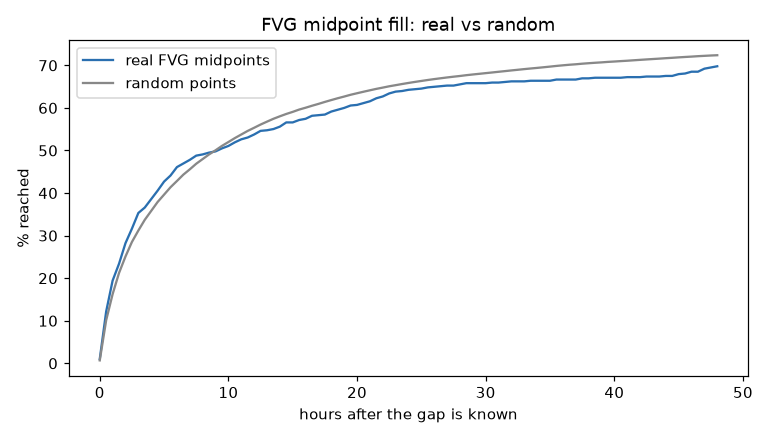
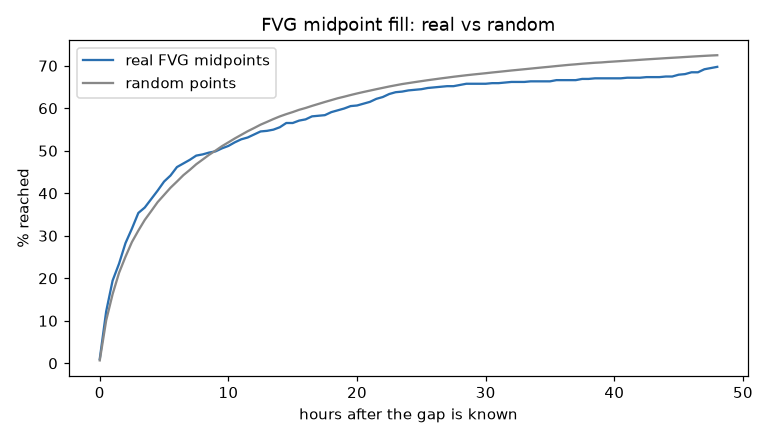
Research: Part A fixes (touch-bar reversal, DEV_END cut, noise bands)

diff --git a/src/xauai/levelstudy.py b/src/xauai/levelstudy.py
@@ -7,8 +7,10 @@ the real levels of OTHER sessions transplanted (same signed distance in ATR unit
 FVG fill study: share of big H1 FVG midpoints reached within 1/4/12/24/48 h of `known_at`, vs random points
 at the same signed ATR distance from random other H1 closes.
 
-Outcome codes: 0 untouched, 1 reversed, 2 broke, 3 touched_no_resolution. A bar that both reverses and goes
-through (or touches and goes through) is counted as "broke" (conservative: unknown intrabar order).
+Outcome codes: 0 untouched, 1 reversed, 2 broke, 3 touched_no_resolution. The touch bar counts for the
+reversal check (its low, for a level above). A bar that both reverses and goes through (including the touch
+bar) is counted as "broke" (conservative: unknown intrabar order).
+Only M1 data up to DEV_END 23:59:59 is read: sessions / FVG horizons / random pools that pass it are dropped.
 """
 
 from __future__ import annotations
@@ -57,7 +59,7 @@ def _codes_above(h: np.ndarray, l: np.ndarray, p: np.ndarray, atr: float) -> np.
     t0 = np.searchsorted(c, p, side="left")  # first bar with high >= p
     touched = t0 < n
     tt = np.searchsorted(c, p + atr, side="left")  # first bar with high >= p + atr
-    lo, hi = t0 + 1, tt  # reversal can only happen strictly after the touch bar and before the through bar
+    lo, hi = t0, tt  # reversal window = touch bar .. bar before the through bar; a bar that also goes through = broke
     has = touched & (hi > lo)
     length = np.where(has, hi - lo, 1)
     k = np.floor(np.log2(length)).astype(int)
@@ -141,11 +143,15 @@ def build_sessions(inp: Inputs) -> pd.DataFrame:
     t = m1["time"].to_numpy()
     lo, hi = pd.Timestamp(config.DEV_START), pd.Timestamp(config.DEV_END) + _DAY
     rows = []
+    dropped = 0
     for i in range(len(w) - 1):
         s = w.at[i, "start"]
         if not (lo <= s < hi):
             continue
         e = max(w.at[i, "end"], w.at[i + 1, "end"])
+        if e > hi - pd.Timedelta(seconds=1):  # window would read past DEV_END 23:59:59
+            dropped += 1
+            continue
         a = int(np.searchsorted(t, s.to_datetime64(), side="left"))
         b = int(np.searchsorted(t, e.to_datetime64(), side="left"))
         if b <= a or pd.Timestamp(t[a]) - s > _H1:
@@ -154,7 +160,9 @@ def build_sessions(inp: Inputs) -> pd.DataFrame:
         if np.isnan(atr) or atr <= 0:
             continue
         rows.append((s, e, w.at[i, "session"], a, b, float(m1["open"].iloc[a]), atr))
-    return pd.DataFrame(rows, columns=["start", "end", "session", "a", "b", "open", "atr"])
+    out = pd.DataFrame(rows, columns=["start", "end", "session", "a", "b", "open", "atr"])
+    out.attrs["dropped_past_dev_end"] = dropped
+    return out
 
 
 def eval_by_session(sess: pd.DataFrame, m1: pd.DataFrame, q_sess: np.ndarray, q_d: np.ndarray) -> np.ndarray:
@@ -206,7 +214,7 @@ def level_study(inp: Inputs, n_random: int = N_RANDOM, seed: int = SEED) -> tupl
         rt, rr = int(g["r_touch"].sum()), int(g["r_rev"].sum())
         rn = nn * n_random
         rows.append({
-            "kind": kind, "n": nn,
+            "kind": kind, "n": nn, "n_touched": touched,
             "touch%": 100 * touched / nn,
             "reversal% of touched": 100 * rev / touched if touched else np.nan,
             "broke% of touched": 100 * int((g["real"] == 2).sum()) / touched if touched else np.nan,
@@ -216,6 +224,10 @@ def level_study(inp: Inputs, n_random: int = N_RANDOM, seed: int = SEED) -> tupl
             "random broke%": 100 * int(g["r_broke"].sum()) / rt if rt else np.nan,
         })
     summ = pd.DataFrame(rows)
+    summ["touch +-"] = 1.96 * 100 * np.sqrt(summ["touch%"] / 100 * (1 - summ["touch%"] / 100) / summ["n"])
+    summ["reversal +-"] = 1.96 * 100 * np.sqrt(
+        summ["reversal% of touched"] / 100 * (1 - summ["reversal% of touched"] / 100) / summ["n_touched"])
+    summ.attrs["dropped_sessions"] = sess.attrs.get("dropped_past_dev_end", 0)
     summ["touch diff (pp)"] = summ["touch%"] - summ["random touch%"]
     summ["reversal diff (pp)"] = summ["reversal% of touched"] - summ["random reversal%"]
     return summ, lv
@@ -228,7 +240,10 @@ def fvg_study(inp: Inputs, n_random: int = N_RANDOM, seed: int = SEED) -> pd.Dat
     t = m1["time"].to_numpy()
     h_all, l_all = m1["high"].to_numpy(float), m1["low"].to_numpy(float)
     lo, hi = pd.Timestamp(config.DEV_START), pd.Timestamp(config.DEV_END) + _DAY
-    g = inp.gaps[(inp.gaps["known_at"] >= lo) & (inp.gaps["known_at"] < hi)].reset_index(drop=True)
+    in_dev = inp.gaps[(inp.gaps["known_at"] >= lo) & (inp.gaps["known_at"] < hi)]
+    keep = in_dev["known_at"] + pd.Timedelta(hours=48) <= hi - pd.Timedelta(seconds=1)  # 48 h horizon inside DEV
+    g = in_dev[keep].reset_index(drop=True)
+    n_dropped = int((~keep).sum())
     h1o = pd.DatetimeIndex(h1["time"])
     close_by_open = pd.Series(h1["close"].to_numpy(float), index=h1o)
     atr_by_open = inp.h1_atr.reindex(h1o)
@@ -239,7 +254,7 @@ def fvg_study(inp: Inputs, n_random: int = N_RANDOM, seed: int = SEED) -> pd.Dat
     real = np.array([fill_hours(m1, k, mid, int(s)) for k, mid, s in zip(g["known_at"], g["mid"], sides)])
     # random bases: dev-period H1 bars with a valid ATR (known at their close)
     bt = h1o + _H1
-    ok = (bt >= lo) & (bt < hi) & ~np.isnan(atr_by_open.to_numpy())
+    ok = (bt >= lo) & (bt + pd.Timedelta(hours=48) <= hi - pd.Timedelta(seconds=1)) & ~np.isnan(atr_by_open.to_numpy())
     base_t = bt[ok].to_numpy()
     base_c, base_a = close_by_open.to_numpy()[ok], atr_by_open.to_numpy()[ok]
     rng = np.random.default_rng(seed)
@@ -264,6 +279,7 @@ def fvg_study(inp: Inputs, n_random: int = N_RANDOM, seed: int = SEED) -> pd.Dat
     g = g.assign(real_h=real)
     g["session"] = assign_session(g["known_at"], inp.windows)["session"].to_numpy()
     g.attrs["rand"] = flat.reshape(pick.shape)
+    g.attrs["dropped"] = n_dropped
     return g
 
 
@@ -332,6 +348,10 @@ def build_report(summ: pd.DataFrame, lv: pd.DataFrame, g: pd.DataFrame, charts: 
     w(f"Generated by `src/xauai/levelstudy.py` at {datetime.now():%Y-%m-%d %H:%M} (local). All numbers below come from that script. "
       f"Development period only: {config.DEV_START} .. {config.DEV_END}. Random seed {SEED}; {N_RANDOM} random placements per real level / per FVG.\n")
     w("## Definitions in plain words\n")
+    w("- **Terms.** *M1* = one-minute candles (the finest data used to decide what was touched first). *ATR* = Average True Range, "
+      "the typical candle size; here the average over the last 14 H1 (hourly) candles, used as a yardstick for 'distance'. "
+      "*Volume profile* = how much trading volume happened at each price in the previous session. "
+      "*Candle 1 / candle 3* of an FVG = the first and third of three consecutive H1 candles; the gap is the empty space between candle 1's extreme and candle 3's.")
     w("- **Level kinds.** pdh/pdl = previous day's high/low; pwh/pwl = previous week's high/low; psh/psl = high/low of the "
       "previous trading session; swh/swl = the last swing high/low of the previous session; poc = price with the most volume in "
       "the previous session's volume profile; vah/val = top/bottom of the zone holding 70% of that volume.")
@@ -341,7 +361,7 @@ def build_report(summ: pd.DataFrame, lv: pd.DataFrame, g: pd.DataFrame, charts: 
     w("- **The window.** From the session start to the end of the NEXT session (the session itself plus the one after it), measured on M1 bars.")
     w("- **Touched.** Price reaches the level (M1 high >= level for a level above, M1 low <= level for one below) inside the window.")
     w("- **Reversed / broke.** After the first touch we watch what happens first: price moving 1 ATR back away from the level "
-      "(towards the session open) = *reversed*; price moving 1 ATR through it = *broke*. If a single M1 bar contains both, it is counted as *broke* "
+      "(towards the session open) = *reversed* (price bounced back at least one ATR); price moving 1 ATR through it = *broke*. The touch bar's own low (for a level above) counts for the reversal check. If a single M1 bar contains both, it is counted as *broke* "
       "(we cannot know the order). If neither happens before the window ends it is *touched, no resolution*, reported separately. "
       "'Reversal %' is the share of **touched** levels that reversed.")
     w(f"- **Random comparison.** Chance level: for each real level we take {N_RANDOM} OTHER sessions at random and put a level at the same signed "
@@ -356,9 +376,15 @@ def build_report(summ: pd.DataFrame, lv: pd.DataFrame, g: pd.DataFrame, charts: 
       "volatility would give you) and its **reversal %** higher than random if it acts as support/resistance. A difference of a few percentage points is "
       "probably noise; look for gaps that are large and that repeat across related kinds. The FVG tables answer 'does price always fill FVGs?': "
       "compare real with random at each horizon. If both are close, FVGs are filled about as often as any nearby price would be touched.\n")
-    w(f"Sessions in study: {lv['sess'].nunique()}; real levels evaluated: {len(lv)}; FVGs: {len(g)}.\n")
+    w(f"Sessions in study: {lv['sess'].nunique()}; real levels evaluated: {len(lv)}; FVGs: {len(g)}. "
+      f"Dropped so that no data after {config.DEV_END} 23:59:59 is read: {summ.attrs.get('dropped_sessions', 0)} sessions "
+      f"(window ends after it) and {g.attrs.get('dropped', 0)} FVGs (48 h horizon passes it); random pools use the same rule.\n")
+    w("**Noise bands:** `touch +-` and `reversal +-` are approximate 95% binomial half-widths (1.96*sqrt(p(1-p)/n)) on the real rate, "
+      "in percentage points; a `diff` smaller than about that is indistinguishable from noise. The random pool is NOT matched by "
+      "session type (Asia/London/NY), only by distance and side, so small systematic differences can come from that.\n")
     w("## Level study per kind\n")
-    cols = ["kind", "n", "touch%", "random touch%", "touch diff (pp)", "reversal% of touched", "random reversal%", "reversal diff (pp)",
+    cols = ["kind", "n", "touch%", "touch +-", "random touch%", "touch diff (pp)", "reversal% of touched", "reversal +-",
+            "random reversal%", "reversal diff (pp)",
             "broke% of touched", "no-resolution% of touched", "random broke%"]
     w(table(summ[cols], floatfmt=".1f") + "\n")
     w("`diff (pp)` = real minus random, in percentage points.\n")

diff --git a/tests/test_levelstudy.py b/tests/test_levelstudy.py
@@ -49,7 +49,7 @@ def test_below_side_mirrors():
     # level 100 below price; touched by low; reversal = high >= 102
     rev = _m1([(105, 106, 104, 105), (101, 102, 100, 101), (101, 102.5, 100.5, 102)])
     assert level_reaction(rev, 100.0, -1, START, END, 2.0) == "reversed"
-    brk = _m1([(105, 106, 104, 105), (101, 102, 100, 101), (100, 100.5, 97.5, 98)])
+    brk = _m1([(105, 106, 104, 105), (101, 101.5, 100, 101), (100, 100.5, 97.5, 98)])
     assert level_reaction(brk, 100.0, -1, START, END, 2.0) == "broke"
 
 

diff --git a/reports/05_levels.md b/reports/05_levels.md
@@ -1,14 +1,15 @@
 # 05 — Part A: do the levels and FVGs behave better than chance?
 
-Generated by `src/xauai/levelstudy.py` at 2026-11-11 12:21 (local). All numbers below come from that script. Development period only: 2022-05-16 .. 2025-10-23. Random seed 7; 500 random placements per real level / per FVG.
+Generated by `src/xauai/levelstudy.py` at 2026-11-11 12:25 (local). All numbers below come from that script. Development period only: 2022-05-16 .. 2025-10-23. Random seed 7; 500 random placements per real level / per FVG.
 
 ## Definitions in plain words
 
+- **Terms.** *M1* = one-minute candles (the finest data used to decide what was touched first). *ATR* = Average True Range, the typical candle size; here the average over the last 14 H1 (hourly) candles, used as a yardstick for 'distance'. *Volume profile* = how much trading volume happened at each price in the previous session. *Candle 1 / candle 3* of an FVG = the first and third of three consecutive H1 candles; the gap is the empty space between candle 1's extreme and candle 3's.
 - **Level kinds.** pdh/pdl = previous day's high/low; pwh/pwl = previous week's high/low; psh/psl = high/low of the previous trading session; swh/swl = the last swing high/low of the previous session; poc = price with the most volume in the previous session's volume profile; vah/val = top/bottom of the zone holding 70% of that volume.
 - **Which levels are studied.** Only the level set that becomes valid at the START of each session (Asia, London, NY), not the day-start refreshes. For each such session the **session-open price** is the open of the first M1 bar at/after the session start, and **ATR** is ATR14 on H1 as known at that moment (no lookahead). A level is *above* if it is higher than the session-open price, otherwise *below*.
 - **The window.** From the session start to the end of the NEXT session (the session itself plus the one after it), measured on M1 bars.
 - **Touched.** Price reaches the level (M1 high >= level for a level above, M1 low <= level for one below) inside the window.
-- **Reversed / broke.** After the first touch we watch what happens first: price moving 1 ATR back away from the level (towards the session open) = *reversed*; price moving 1 ATR through it = *broke*. If a single M1 bar contains both, it is counted as *broke* (we cannot know the order). If neither happens before the window ends it is *touched, no resolution*, reported separately. 'Reversal %' is the share of **touched** levels that reversed.
+- **Reversed / broke.** After the first touch we watch what happens first: price moving 1 ATR back away from the level (towards the session open) = *reversed* (price bounced back at least one ATR); price moving 1 ATR through it = *broke*. The touch bar's own low (for a level above) counts for the reversal check. If a single M1 bar contains both, it is counted as *broke* (we cannot know the order). If neither happens before the window ends it is *touched, no resolution*, reported separately. 'Reversal %' is the share of **touched** levels that reversed.
 - **Random comparison.** Chance level: for each real level we take 500 OTHER sessions at random and put a level at the same signed distance from THAT session's open (distance measured in ATR units, scaled by that session's ATR), on the same side, then run the identical test in that session's window. 'Random' columns pool all those placements. A real level 'matters' only if it beats this.
 - **FVG (fair value gap).** On H1: bullish if the high of candle 1 is below the low of candle 3 (bearish: mirror), and the middle candle's body is at least 1.5×ATR14(H1) (a 'big' gap). Known at the close of candle 3. Target = the gap's **midpoint**. 'Filled within N hours' = M1 price touches the midpoint within N hours of the gap being known (horizon 48 h). Random points = the same signed distance (in ATR units) from the close of the gap's third candle, transplanted onto 500 random other H1 closes in the development period (same side); same fill test.
 
@@ -16,23 +17,25 @@ Generated by `src/xauai/levelstudy.py` at 2026-11-11 12:21 (local). All numbers 
 
 If a level really attracts or repels price, its **touch %** should be higher than the random one (random levels at that distance are what plain volatility would give you) and its **reversal %** higher than random if it acts as support/resistance. A difference of a few percentage points is probably noise; look for gaps that are large and that repeat across related kinds. The FVG tables answer 'does price always fill FVGs?': compare real with random at each horizon. If both are close, FVGs are filled about as often as any nearby price would be touched.
 
-Sessions in study: 2666; real levels evaluated: 29220; FVGs: 705.
+Sessions in study: 2664; real levels evaluated: 29198; FVGs: 704. Dropped so that no data after 2025-10-23 23:59:59 is read: 2 sessions (window ends after it) and 1 FVGs (48 h horizon passes it); random pools use the same rule.
+
+**Noise bands:** `touch +-` and `reversal +-` are approximate 95% binomial half-widths (1.96*sqrt(p(1-p)/n)) on the real rate, in percentage points; a `diff` smaller than about that is indistinguishable from noise. The random pool is NOT matched by session type (Asia/London/NY), only by distance and side, so small systematic differences can come from that.
 
 ## Level study per kind
 
-| kind | n | touch% | random touch% | touch diff (pp) | reversal% of touched | random reversal% | reversal diff (pp) | broke% of touched | no-resolution% of touched | random broke% |
-|---|---|---|---|---|---|---|---|---|---|---|
-| pdh | 2666 | 44.6 | 46.4 | -1.8 | 42.4 | 45.5 | -3.1 | 54.2 | 3.4 | 50.7 |
-| pdl | 2666 | 38.1 | 38.2 | -0.2 | 47.3 | 48.0 | -0.8 | 50.0 | 2.7 | 48.6 |
-| pwh | 2655 | 22.9 | 23.5 | -0.6 | 44.2 | 46.0 | -1.8 | 50.7 | 5.1 | 50.1 |
-| pwl | 2655 | 16.8 | 16.9 | -0.2 | 46.1 | 47.3 | -1.2 | 49.0 | 4.9 | 48.9 |
-| psh | 2654 | 59.4 | 60.9 | -1.5 | 43.9 | 45.9 | -2.0 | 53.7 | 2.4 | 51.1 |
-| psl | 2654 | 53.7 | 53.8 | -0.0 | 47.3 | 48.3 | -1.0 | 50.8 | 2.0 | 48.9 |
-| swh | 2654 | 70.7 | 71.1 | -0.4 | 46.8 | 46.8 | -0.0 | 51.6 | 1.7 | 50.9 |
-| swl | 2654 | 67.8 | 67.4 | 0.4 | 49.8 | 48.2 | 1.6 | 48.5 | 1.7 | 49.6 |
-| poc | 2654 | 74.2 | 73.6 | 0.5 | 47.0 | 47.7 | -0.7 | 50.8 | 2.3 | 50.4 |
-| vah | 2654 | 73.2 | 73.6 | -0.4 | 45.6 | 47.1 | -1.5 | 52.0 | 2.4 | 50.9 |
-| val | 2654 | 71.9 | 71.6 | 0.2 | 48.1 | 48.0 | 0.1 | 49.6 | 2.3 | 50.0 |
+| kind | n | touch% | touch +- | random touch% | touch diff (pp) | reversal% of touched | reversal +- | random reversal% | reversal diff (pp) | broke% of touched | no-resolution% of touched | random broke% |
+|---|---|---|---|---|---|---|---|---|---|---|---|---|
+| pdh | 2664 | 44.6 | 1.9 | 46.5 | -1.8 | 44.2 | 2.8 | 47.3 | -3.2 | 52.4 | 3.4 | 48.9 |
+| pdl | 2664 | 38.1 | 1.8 | 38.3 | -0.2 | 49.5 | 3.1 | 49.8 | -0.3 | 47.9 | 2.7 | 46.9 |
+| pwh | 2653 | 22.9 | 1.6 | 23.6 | -0.7 | 45.4 | 4.0 | 47.9 | -2.5 | 49.7 | 4.9 | 48.2 |
+| pwl | 2653 | 16.8 | 1.4 | 16.9 | -0.1 | 49.7 | 4.6 | 49.1 | 0.6 | 45.6 | 4.7 | 47.2 |
+| psh | 2652 | 59.4 | 1.9 | 60.9 | -1.5 | 45.4 | 2.5 | 47.4 | -2.0 | 52.2 | 2.4 | 49.6 |
+| psl | 2652 | 53.8 | 1.9 | 53.8 | -0.0 | 48.7 | 2.6 | 49.7 | -1.1 | 49.4 | 2.0 | 47.4 |
+| swh | 2652 | 70.7 | 1.7 | 71.1 | -0.4 | 47.6 | 2.3 | 47.9 | -0.3 | 50.8 | 1.7 | 49.9 |
+| swl | 2652 | 67.8 | 1.8 | 67.4 | 0.4 | 50.8 | 2.3 | 49.4 | 1.4 | 47.5 | 1.7 | 48.5 |
+| poc | 2652 | 74.2 | 1.7 | 73.6 | 0.5 | 48.0 | 2.2 | 48.5 | -0.4 | 49.7 | 2.3 | 49.6 |
+| vah | 2652 | 73.2 | 1.7 | 73.6 | -0.4 | 46.5 | 2.2 | 48.1 | -1.6 | 51.1 | 2.4 | 49.9 |
+| val | 2652 | 71.9 | 1.7 | 71.6 | 0.3 | 49.1 | 2.2 | 49.0 | 0.1 | 48.6 | 2.3 | 49.1 |
 
 `diff (pp)` = real minus random, in percentage points.
 
@@ -46,11 +49,11 @@ Each cell is `real / random` (percent unless stated). 'never in 48h' = share who
 
 | group | n | within 1h | within 4h | within 12h | within 24h | within 48h | never in 48h | median h (filled only) |
 |---|---|---|---|---|---|---|---|---|
-| all | 705 | 19.4 / 16.2 | 38.6 / 35.8 | 53.8 / 55.3 | 64.3 / 65.9 | 69.8 / 72.4 | 30.2 / 27.6 | 3.00 / 4.08 |
-| bullish | 366 | 17.8 / 15.0 | 35.2 / 33.5 | 50.5 / 51.9 | 59.3 / 62.2 | 64.8 / 68.6 | 35.2 / 31.4 | 3.45 / 4.22 |
-| bearish | 339 | 21.2 / 17.6 | 42.2 / 38.3 | 57.2 / 59.0 | 69.6 / 69.9 | 75.2 / 76.4 | 24.8 / 23.6 | 2.92 / 4.00 |
-| session: asia | 89 | 14.6 / 21.3 | 37.1 / 42.9 | 68.5 / 62.1 | 70.8 / 71.4 | 77.5 / 76.7 | 22.5 / 23.3 | 4.52 / 3.05 |
-| session: london | 172 | 17.4 / 15.4 | 51.2 / 35.4 | 72.1 / 55.6 | 76.7 / 66.3 | 80.2 / 72.9 | 19.8 / 27.1 | 2.87 / 4.25 |
-| session: ny | 444 | 21.2 / 15.5 | 34.0 / 34.6 | 43.7 / 53.9 | 58.1 / 64.6 | 64.2 / 71.3 | 35.8 / 28.7 | 2.60 / 4.28 |
+| all | 704 | 19.5 / 16.3 | 38.6 / 35.8 | 53.8 / 55.4 | 64.2 / 65.9 | 69.7 / 72.5 | 30.3 / 27.5 | 3.00 / 4.10 |
+| bullish | 366 | 17.8 / 15.0 | 35.2 / 33.4 | 50.5 / 51.9 | 59.3 / 62.3 | 64.8 / 68.7 | 35.2 / 31.3 | 3.45 / 4.23 |
+| bearish | 338 | 21.3 / 17.6 | 42.3 / 38.4 | 57.4 / 59.0 | 69.5 / 69.9 | 75.1 / 76.5 | 24.9 / 23.5 | 2.91 / 4.00 |
+| session: asia | 89 | 14.6 / 21.1 | 37.1 / 42.8 | 68.5 / 62.3 | 70.8 / 71.6 | 77.5 / 76.9 | 22.5 / 23.1 | 4.52 / 3.08 |
+| session: london | 171 | 17.5 / 15.3 | 51.5 / 35.2 | 72.5 / 55.6 | 76.6 / 66.4 | 80.1 / 73.0 | 19.9 / 27.0 | 2.83 / 4.32 |
+| session: ny | 444 | 21.2 / 15.7 | 34.0 / 34.6 | 43.7 / 53.9 | 58.1 / 64.6 | 64.2 / 71.4 | 35.8 / 28.6 | 2.60 / 4.27 |
 
 ![05_fvg_fill.png](05_fvg_fill.png)
